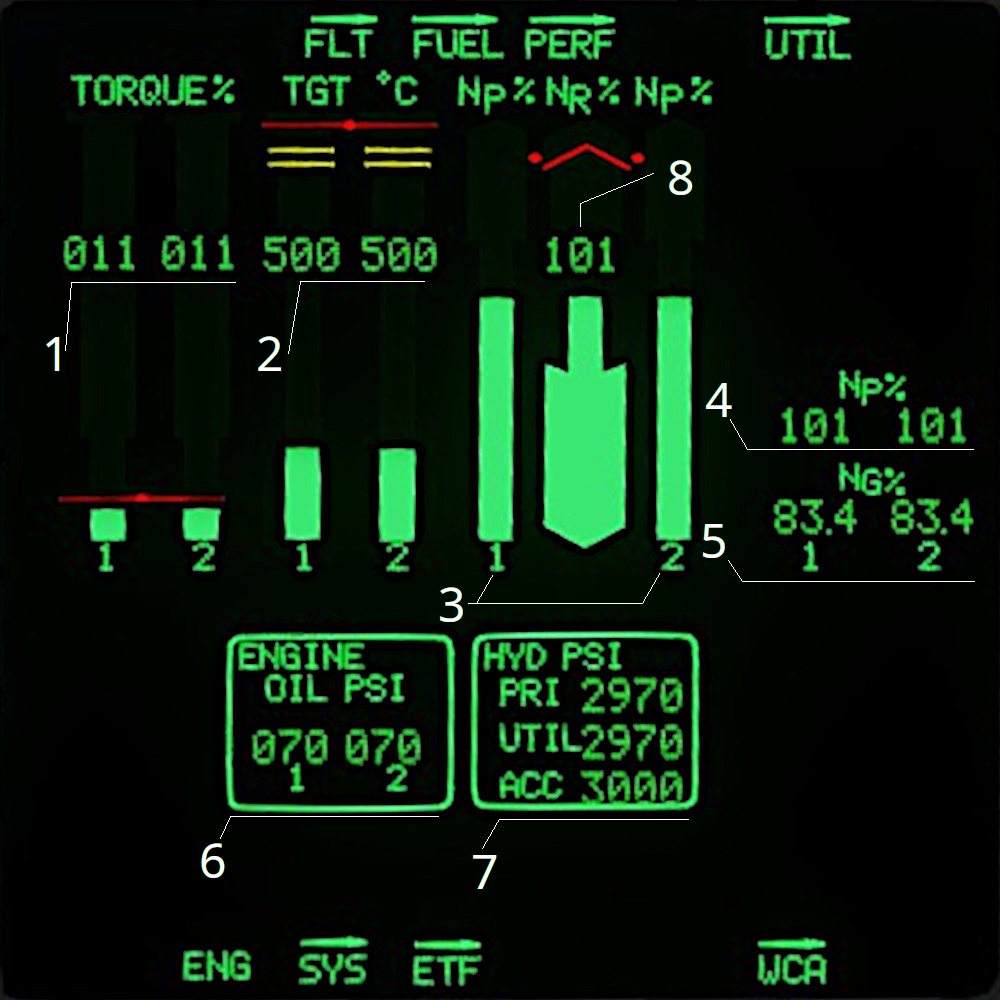
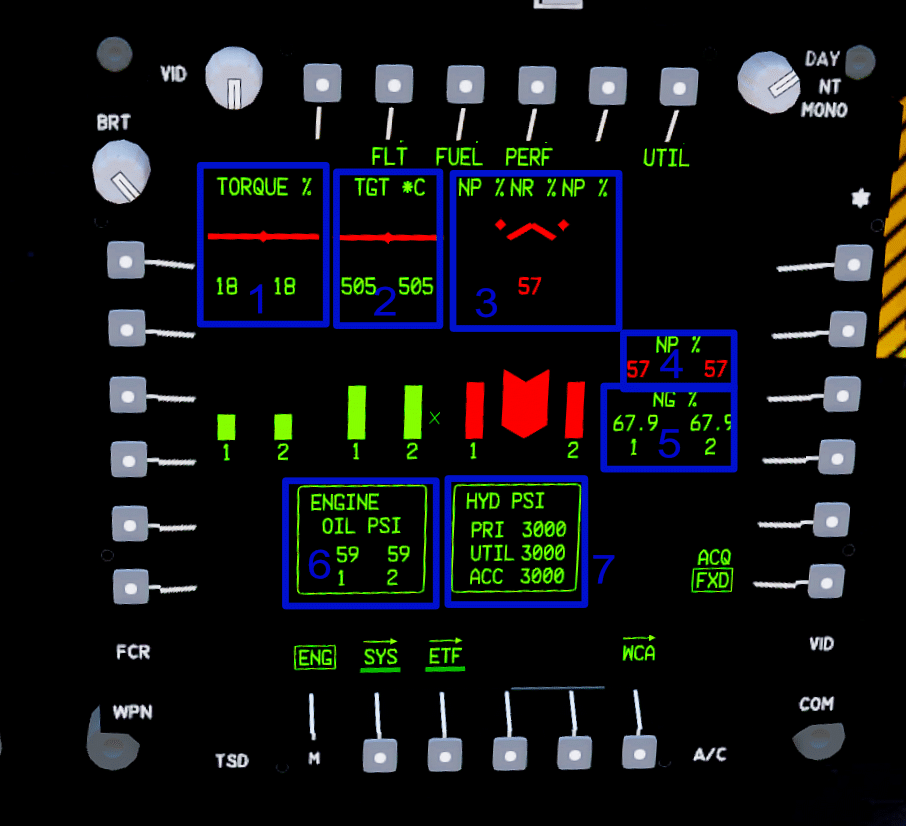
Added perf page, modified the ENG and FUEL pages. Modified the sidebar to distinguish between flight and weapons

diff --git a/pages/mpd/perf.md b/pages/mpd/perf.md
@@ -1,0 +1,49 @@
+---
+title: PERF Page
+tags: [mpd]
+sidebar: ah64d_sidebar
+permalink: mpd-perf.html
+folder: mpd
+---
+
+{% include image.html file="mpd/page_perf.jpg" alt="Image of ASE MPD with no track" caption="Figure 1: The PERF MPD" %}
+
+## Introduction
+
+This page will explain the PERF MPD display for the Apache helicopter. It primarily displays range, torque required for hover, maximum gross weight for flight and true air speed for various stages of flight.
+
+It currently only shows for the current gross weight and weather conditions. The MAX and PLAN sub-pages do not work as of now
+
+## Information
+There are 5 main blocks of information displayed starting from the top left and going row by row.
+
+### Hover Q
+This page displays the amount of torque required for holding a hover in IGE and OGE. It also displays the go/no-go criteria for being able to enter a hover. The current torque is also shown as indicated.
+
+### Cruise
+This displays the required torque (Q) and fuel flow (FF) values for maximum range (RNG) and maximum loiter time (END) for the helicopter. These values will change as the gross weight of the helicopter will change
+
+### Max GWT
+This block displays the maximum gross weight of the chopper to maintain a stable flight in IGE and OGE. The first row is for dual engine (DE) and the second row for single engine (SE) operations.
+
+### TAS
+This block displays the ideal speed for different flight regimes.
+1. VNE: Velocity to never exceed. Maximum speed/velocity for the helicopter, above this and helicopter may break apart from under you.
+2. VSSE: Safe speed for single engine operations. Do not exceed this if only running with one engine.
+3. RNG: Ideal speed for maximum range depending upon current conditions.
+4. END: Ideal speed for loitering over the AOI depending upon current conditions.
+
+### Max Q
+This block displays the maximum torque for the helicopter in dual engine (DE) and single engine (SE) usage.
+
+## Other Information
+The PERF page also displays more information than just operating conditions for the helicopter.
+1. PA : Outside pressure
+2. FAT : Free air temperature. The current temperature of the air surrounding the helicopter.
+3. GWT : Current gross weight of the helicopter. This takes into account munitions and fuel load.
+
+CG : Displays the location of the center of gravity of the helicopter. Is useful when entering a hover.
+
+## Operations
+
+The page can access FLT, ENG, FUEL and UTIL pages. To access the ENG page, click on the PERF page button.

diff --git a/pages/mpd/eng.md b/pages/mpd/eng.md
@@ -13,16 +13,16 @@ The ENG page is your view into the engines, drivetrain and rotor system. It is i
 Most information here is provided both visually and graphically, via the vertical tapes. Many of them are also colour-coded (red, amber, green) to give another indication of help
 
 ## Info
+The boxes in Figure 1 are numbered and their explanations are provided below.
+1. Torque % : It shows the torque level for each engine, with their numerical values being displayed above the tapes. The player can exceed the maximum value of 100% for each or both engines for a maximum of 6-8 seconds after which the engine will start to fail with a loss of torque.
+2. TGT \*C : Indicates the turbine gas temperature. This value will increase with the torque value.
+3. NP % and NR % : Engine turbine and main rotor RPM values and tapes respectively. Normal values are 101% for both NP and NR. The numerical value for NR is shown in the centre but for NP it is shown beside and under as seen in Box 4.
+4. NP % : Numerical values for NP for engines 1 and 2.
+5. NG % : Generator turbine shaft's RPM shown in percentage of maximum shft RPM.
+6. Engine Oil PSI : Oil pressure for engines 1 and 2.
+7. Hydraulic PSI : Hydraulic pressure for Primary, utilities and accumulator pressure. These values are important as they dictate the usage of control surfaces for the helicopter. If the hydraulic pressure starts to fall, land immediately and repair the helicopter.
 
-1. Engine torque levels, where 100% is the maximum normal value. You can exceed this value for small periods of time, but extended usage in this area is not recommended.
-2. Turbine Gas Temperature. This is not simulated by the flight model, and as such is only important during startup
-3. Np is the turbine engine's RPM. It is given as a percentage of the normal value.
-4. Numeric format of the engine's Np
-5. Ng is the generator turbine shaft's RPM, as a percentage of the normal value. This is only important during startup.
-6. The engine oil PSI. This is only important during startup.
-7. :construction: This is the pressure indicators for all 4 of the hydraulics systems. This is static, and not currently implemented.
-8. Nr is the main rotor rpm.
 
 ## Operations
 
-You cannot perform any tasks through this page, the pilot controls the engines via the power lever quadrant near their left leg.
+The player can access the FLT, FUEL, PERF and UTIL pages from here.

diff --git a/pages/mpd/fuel.md b/pages/mpd/fuel.md
@@ -7,24 +7,20 @@ folder: mpd
 ---
 
 
-{% include image.html file="mpd/fuel_idle.png" alt="Image of Fuel page with full Internal fuel" caption="Figure 1: The Fuel Page" %}
+{% include image.html file="mpd/page-fuel.png" alt="Image of Fuel page with full Internal fuel" caption="Figure 1: The Fuel Page" %}
 
 
 ## Introduction
 The FUEL page is used to manage and view the aircraft's fuel. On the FUEL page you can see fuel levels, consumption rates and endurance times.
 
-{% include important.html content="Currently the mod does not contain additional fuel tanks like the Internal Auxilliary Fuel System (IAFS, or 'Robbie Tank') along with pylon mounted fuel tanks. The latter are mainly used for service flights which are to move the aircraft from one place to another far away, The external tanks are not self sealing so they are not designed to be used in combat." %}
+{% include important.html content="Currently the mod does include the auxillary fuel tanks which are pylon mounted. These are not self-sealing so when under fire they will blow up." %}
 
-## Info
-
-1. Forward fuel tank quantity (lbs)
-2. Aft fuel tank quantity (lbs)
-3. Total fuel quantity (total & internal only) (lbs)
-4. Engine fuel flows (lbs/hr)
-5. Engine endurance times
-
-{% include important.html content="When meantioning the total quantity of fuel and endurance it meant the Total of the interior fuel tanks and the external fuel tanks." %}
+### Info
+1. INT and TOT : Displays the internal fuel of the helicopter and internal plus external stores.. The external stores also indclude the robbie tanks which can be mounted on pylons.
+2. CALC FLOW : This displays the fuel flow (pounds per hour) for each engine and total for both engines. This will change with changing engine parameters.
+3. ENDR : Displays the loitering time for internal fuel only and total fuel in the helicopter.
+4. TYPE : JP8, static placeholder showing what type of fuel the helicopter takes.
 
 ## Operations
 
-Currently you cannot perform any operations through this page.
+The page can access FLT, ENG, PERF and UTIL pages. To access the ENG page, click on the FUEL page button.

diff --git a/pages/getting-started/initialisation.md b/pages/getting-started/initialisation.md
@@ -14,7 +14,7 @@ This page will explain the difference of the Apache provided by this mod and Apa
 
 ## Differences
 1. Better than the DCS and RHS/CUP choppers. The flight model is more in line with the actual chopper and also the weapons work better.
-2. DCS has the AH-64E with a digitial screen for TADS while this mod is a version behind, AH-64D, the tads is seen through an eyepiece at least in the game.
+2. DCS has the AH-64E with a digitial screen for TADS while this mod is a version behind, the AH-64D, the TADS is seen through an eyepiece at least in the game.
 3. No colour output for the TADS, thermal, and black and white. Most of the times just run thermal.
 4. Clicky-clicky, and buttons. Both exist, allowing for players to either interact with the mouse or use MPDs to interact with the screens.
 5. Did we mention a better flight model, well here it is again. A better flight model and simulation.
@@ -22,6 +22,8 @@ This page will explain the difference of the Apache provided by this mod and Apa
 7. Uses the new mod keybinds from Arma 3 for interfacing with joysticks and other external peripherals.
 8. NO STINGERS ON THE EXTERNAL HARDPOINTS. ASK THE INFANTRY TO CLEAR THE SKY OR USE YOUR CANNON OR LASER GUIDED HELLFIRE.
 
-Points 1 and 5 are important, the chopper will be heavy when carrying a full load of munitions and fuel. Scarfice something to get it flying.
+Points 1 and 5 are important, the chopper will be heavy when carrying a full load of munitions and fuel. Scarifice something to get it flying.
 
-Now the mod is similar to the Hatchet H-60. The developers would suggest learning both as the flight models and interaction is very similar to players. Systems is where the differences start. 
+The mod is similar to the Hatchet H-60. H-60 is transport while the Apache is the attack helicopter. If the player is familiar with the H-60 then most of the quirks related to the flight model will be similar and will give a good jumping off point for flying the Apache.
+
+The sub-systems on the other hand are very different and the player should devote some time to learning it.

diff --git a/pages/mpd/index.md b/pages/mpd/index.md
@@ -43,6 +43,7 @@ Here is a list of all the pages and where you can open them:
 | DMS | {{check}} | {{check}} | [WCA](./mpd-wca) | {{check}} | {{check}}
 | [WPN](./mpd-wpn) | {{check}} | {{cross}} | [TSD](./mpd-tsd) | {{cross}} | {{check}} |
 | FUEL | {{check}} | {{cross}} | FCR |  {{cross}} | {{check}} |
-| FLT | {{check}} | {{cross}} | [ENG](./mpd-eng) |  {{cross}} | {{check}} |
+| FLT | {{check}} | {{cross}} | [ENG](./mpd-eng) |  {{check}} | {{check}} |
+| [PERF](./mpd-perf) | {{check}} | {{check}}
 
 <sup>1</sup> Not all of these navigations are currently implemented. We are currently working on it.
